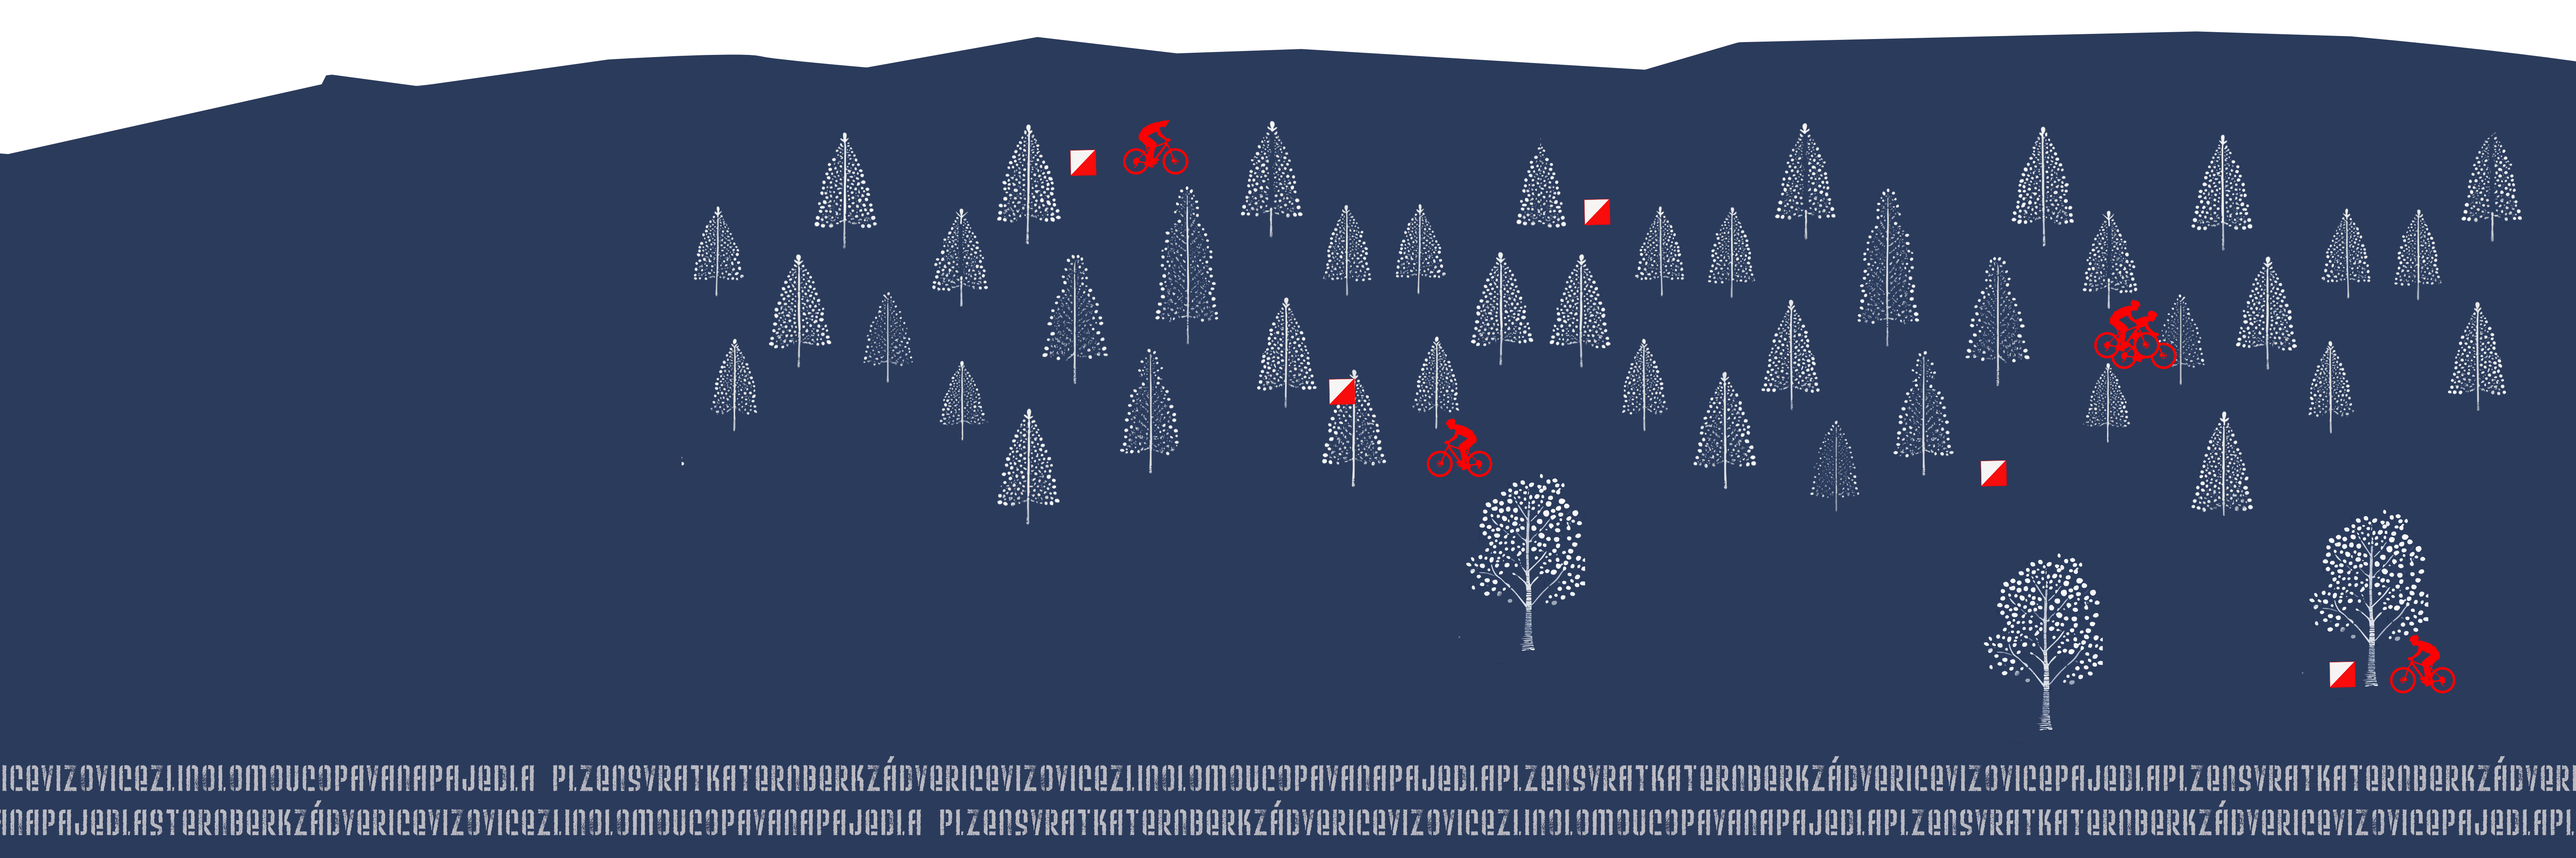
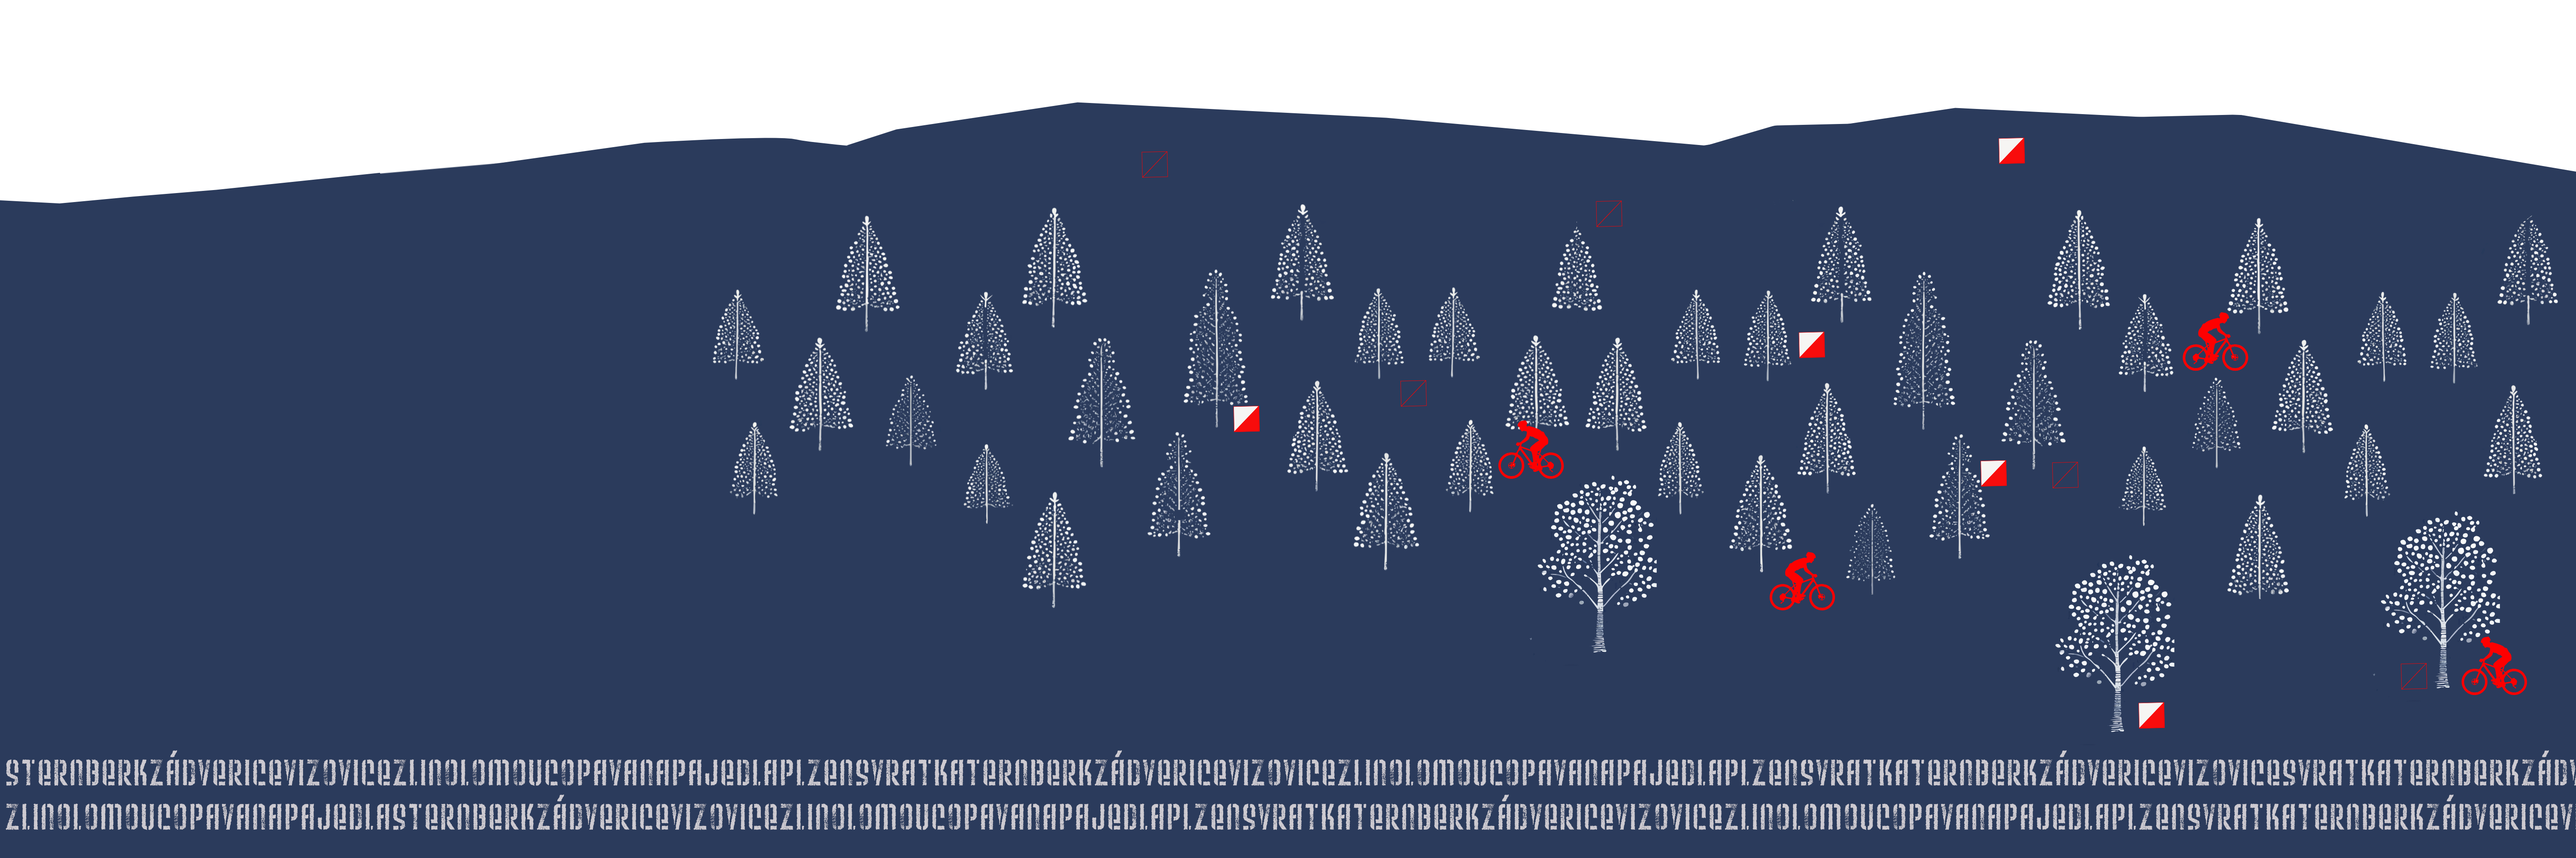
Add files via upload

diff --git a/index.html b/index.html
@@ -30,7 +30,8 @@
         .hero-background {
             background-image: url('stromecky.jpeg');
             background-size: cover;
-            background-position: left center;
+            background-position: left top;
+            /* Vždy zleva shora */
             background-repeat: no-repeat;
             width: 100%;
             display: flex;
@@ -57,11 +58,11 @@
             background-color: #ffffff;
         }
 
+        /* Novinky na jeden řádek */
         #news-content {
-            white-space: pre-wrap;
+            display: inline;
         }
 
-        /* Skryje sekci aktualit předem */
         #news-section {
             display: none;
         }
@@ -98,7 +99,7 @@
 
     <header class="hero-background border-b-8 border-red-600 header-shadow-intense min-h-[400px] md:min-h-[600px]">
         <div class="max-w-7xl mx-auto px-6 w-full">
-            <div class="w-full lg:w-1/3 text-center lg:text-left text-white py-12 md:py-20">
+            <div class="max-w-xl text-center lg:text-left text-white py-12 md:py-20 lg:ml-0">
                 <h2 class="font-bold tracking-tight leading-tight">
                     <span class="text-4xl md:text-7xl block">MTBO</span>
                     <span class="text-3xl md:text-5xl block opacity-90">VIZOVICE 2026</span>
@@ -116,14 +117,16 @@
         </div>
     </header>
 
-    <section id="news-section" class="py-12 bg-white">
+    <section id="news-section" class="py-8 bg-white border-b border-slate-100">
         <div class="max-w-4xl mx-auto px-6">
-            <h3 class="text-xl font-bold mb-4 flex items-center gap-2 text-red-600">
-                <i data-lucide="megaphone" class="w-5 h-5"></i>
-                UPOZORNĚNÍ:
-            </h3>
-            <div id="news-content" class="text-base text-slate-800 font-semibold italic">
+            <div class="flex flex-wrap items-baseline gap-x-2">
+                <h3 class="text-lg font-bold text-red-600 flex items-center gap-2 whitespace-nowrap">
+                    <i data-lucide="megaphone" class="w-5 h-5"></i>
+                    UPOZORNĚNÍ:
+                </h3>
+                <div id="news-content" class="text-base text-slate-800 font-semibold italic">
                 </div>
+            </div>
         </div>
     </section>
 
@@ -134,36 +137,36 @@
             </h3>
             <div class="space-y-4 text-left">
                 <a href="https://oris.ceskyorientak.cz/Zavod?id=9676"
-                    class="flex items-center p-4 md:p-6 rounded-lg etape-button group">
+                    class="flex items-center p-4 md:p-6 rounded-lg etape-button group shadow-sm">
                     <span class="text-2xl md:text-3xl font-bold w-16 md:w-20 text-red-600">E1</span>
                     <div class="flex-1">
                         <p class="text-[10px] md:text-xs text-slate-500 uppercase font-bold tracking-tighter">Pátek
                             8.5.2026</p>
                         <h4 class="text-lg md:text-xl font-bold">MČR MASS START</h4>
                     </div>
-                    <i data-lucide="https://oris.ceskyorientak.cz/Zavod?id=9676"
+                    <i data-lucide="external-link"
                         class="text-slate-300 group-hover:text-red-600 w-5 h-5 transition-colors"></i>
                 </a>
                 <a href="https://oris.ceskyorientak.cz/Zavod?id=9677"
-                    class="flex items-center p-4 md:p-6 rounded-lg etape-button group">
+                    class="flex items-center p-4 md:p-6 rounded-lg etape-button group shadow-sm">
                     <span class="text-2xl md:text-3xl font-bold w-16 md:w-20 text-red-600">E2</span>
                     <div class="flex-1">
                         <p class="text-[10px] md:text-xs text-slate-500 uppercase font-bold tracking-tighter">Sobota
                             9.5.2026</p>
                         <h4 class="text-lg md:text-xl font-bold">SPRINT</h4>
                     </div>
-                    <i data-lucide="https://oris.ceskyorientak.cz/Zavod?id=9677"
+                    <i data-lucide="external-link"
                         class="text-slate-300 group-hover:text-red-600 w-5 h-5 transition-colors"></i>
                 </a>
                 <a href="https://oris.ceskyorientak.cz/Zavod?id=9678"
-                    class="flex items-center p-4 md:p-6 rounded-lg etape-button group">
+                    class="flex items-center p-4 md:p-6 rounded-lg etape-button group shadow-sm">
                     <span class="text-2xl md:text-3xl font-bold w-16 md:w-20 text-red-600">E3</span>
                     <div class="flex-1">
                         <p class="text-[10px] md:text-xs text-slate-500 uppercase font-bold tracking-tighter">Neděle
                             10.5.2026</p>
                         <h4 class="text-lg md:text-xl font-bold">MIDDLE</h4>
                     </div>
-                    <i data-lucide="https://oris.ceskyorientak.cz/Zavod?id=9678"
+                    <i data-lucide="external-link"
                         class="text-slate-300 group-hover:text-red-600 w-5 h-5 transition-colors"></i>
                 </a>
             </div>
@@ -177,7 +180,7 @@
             </h3>
             <div class="space-y-4 text-left">
                 <a href="rozpis.pdf" target="_blank"
-                    class="flex items-center p-4 md:p-6 rounded-lg etape-button group">
+                    class="flex items-center p-4 md:p-6 rounded-lg etape-button group shadow-sm">
                     <div class="w-16 md:w-20 flex justify-center"><i data-lucide="file-text"
                             class="w-8 h-8 text-red-600"></i></div>
                     <div class="flex-1">
@@ -187,7 +190,7 @@
                         class="text-slate-300 group-hover:text-red-600 w-5 h-5 transition-colors"></i>
                 </a>
                 <a href="pokyny.pdf" target="_blank"
-                    class="flex items-center p-4 md:p-6 rounded-lg etape-button group">
+                    class="flex items-center p-4 md:p-6 rounded-lg etape-button group shadow-sm">
                     <div class="w-16 md:w-20 flex justify-center"><i data-lucide="file-text"
                             class="w-8 h-8 text-red-600"></i></div>
                     <div class="flex-1">
@@ -206,17 +209,17 @@
                 FOTOGALERIE
             </h3>
             <div class="grid grid-cols-1 md:grid-cols-3 gap-4">
-                <div class="aspect-video bg-slate-300 rounded overflow-hidden">
+                <div class="aspect-video bg-slate-300 rounded overflow-hidden shadow-md">
                     <img src="fotogalerie/1.jpg" alt="Foto 1"
                         class="w-full h-full object-cover grayscale hover:grayscale-0 transition duration-500"
                         onerror="this.parentElement.innerHTML='<div class=\'flex items-center justify-center h-full text-slate-500\'>NÁHLED 1</div>'">
                 </div>
-                <div class="aspect-video bg-slate-300 rounded overflow-hidden">
+                <div class="aspect-video bg-slate-300 rounded overflow-hidden shadow-md">
                     <img src="fotogalerie/2.jpg" alt="Foto 2"
                         class="w-full h-full object-cover grayscale hover:grayscale-0 transition duration-500"
                         onerror="this.parentElement.innerHTML='<div class=\'flex items-center justify-center h-full text-slate-500\'>NÁHLED 2</div>'">
                 </div>
-                <div class="aspect-video bg-slate-300 rounded overflow-hidden">
+                <div class="aspect-video bg-slate-300 rounded overflow-hidden shadow-md">
                     <img src="fotogalerie/3.jpg" alt="Foto 3"
                         class="w-full h-full object-cover grayscale hover:grayscale-0 transition duration-500"
                         onerror="this.parentElement.innerHTML='<div class=\'flex items-center justify-center h-full text-slate-500\'>NÁHLED 3</div>'">
@@ -226,17 +229,32 @@
     </section>
 
     <footer class="bg-slate-900 text-white py-16">
-        <div class="max-w-7xl mx-auto text-center px-6">
-            <img src="logoskloboukem.png" class="h-16 mx-auto mb-8 invert opacity-80">
-            <p class="opacity-50 text-sm tracking-widest uppercase">© 2026 GIGANT ORIENTEERING</p>
-            <p class="opacity-50 text-sm tracking-widest uppercase">Eduard Toloch</p>
+        <div class="max-w-7xl mx-auto px-6">
+            <div class="grid grid-cols-1 md:grid-cols-2 gap-12 items-center text-center md:text-left">
+                <div>
+                    <img src="logoskloboukem.png" class="h-16 mx-auto md:mx-0 mb-6 invert opacity-80">
+                    <p class="opacity-50 text-sm tracking-widest uppercase">© 2026 GIGANT ORIENTEERING</p>
+                </div>
+                <div class="space-y-4">
+                    <h4 class="font-bold text-xl border-b border-slate-700 pb-2 inline-block">KONTAKTY</h4>
+                    <div class="flex flex-col gap-3 opacity-80">
+                        <a href="mailto:info@gigant.cz"
+                            class="flex items-center justify-center md:justify-start gap-3 hover:text-red-500 transition">
+                            <i data-lucide="mail" class="w-5 h-5"></i> info@gigantorienteering.cz
+                        </a>
+                        <a href="https://www.gigant.cz" target="_blank"
+                            class="flex items-center justify-center md:justify-start gap-3 hover:text-red-500 transition">
+                            <i data-lucide="phone" class="w-5 h-5"></i> +420 603 830 727
+                        </a>
+                    </div>
+                </div>
+            </div>
         </div>
     </footer>
 
     <script>
         lucide.createIcons();
 
-        // Skript pro podmíněné načtení a zobrazení aktualit
         fetch('novinky.txt')
             .then(response => {
                 if (!response.ok) throw new Error('Prázdné');
@@ -244,15 +262,12 @@
             })
             .then(text => {
                 const cleanText = text.trim();
-                // Zobrazí sekci jen pokud soubor obsahuje text
                 if (cleanText.length > 2) {
                     document.getElementById('news-content').innerText = cleanText;
                     document.getElementById('news-section').style.display = 'block';
                 }
             })
-            .catch(err => {
-                console.log('Žádné novinky k zobrazení');
-            });
+            .catch(err => console.log('Žádné novinky k zobrazení'));
     </script>
 </body>
 

diff --git a/en.html b/en.html
@@ -123,7 +123,7 @@
                 NEWS:
             </h3>
             <div id="news-content" class="text-base text-slate-800 font-semibold italic">
-                </div>
+            </div>
         </div>
     </section>
 
@@ -195,6 +195,7 @@
                     </div>
                     <i data-lucide="download"
                         class="text-slate-300 group-hover:text-red-600 w-5 h-5 transition-colors"></i>
+                </a>
             </div>
         </div>
     </section>
@@ -225,10 +226,26 @@
     </section>
 
     <footer class="bg-slate-900 text-white py-16">
-        <div class="max-w-7xl mx-auto text-center px-6">
-            <img src="logoskloboukem.png" class="h-16 mx-auto mb-8 invert opacity-80">
-            <p class="opacity-50 text-sm tracking-widest uppercase">© 2026 GIGANT ORIENTEERING</p>
-            <p class="opacity-50 text-sm tracking-widest uppercase">Eduard Toloch</p>
+        <div class="max-w-7xl mx-auto px-6">
+            <div class="grid grid-cols-1 md:grid-cols-2 gap-12 items-center text-center md:text-left">
+                <div>
+                    <img src="logoskloboukem.png" class="h-16 mx-auto md:mx-0 mb-6 invert opacity-80">
+                    <p class="opacity-50 text-sm tracking-widest uppercase">© 2026 GIGANT ORIENTEERING</p>
+                </div>
+                <div class="space-y-4">
+                    <h4 class="font-bold text-xl border-b border-slate-700 pb-2 inline-block">CONTACT US</h4>
+                    <div class="flex flex-col gap-3 opacity-80">
+                        <a href="mailto:info@gigant.cz"
+                            class="flex items-center justify-center md:justify-start gap-3 hover:text-red-500 transition">
+                            <i data-lucide="mail" class="w-5 h-5"></i> info@gigantorienteering.cz
+                        </a>
+                        <a href="https://www.gigant.cz" target="_blank"
+                            class="flex items-center justify-center md:justify-start gap-3 hover:text-red-500 transition">
+                            <i data-lucide="phone" class="w-5 h-5"></i> +420 603 830 727
+                        </a>
+                    </div>
+                </div>
+            </div>
         </div>
     </footer>
 
